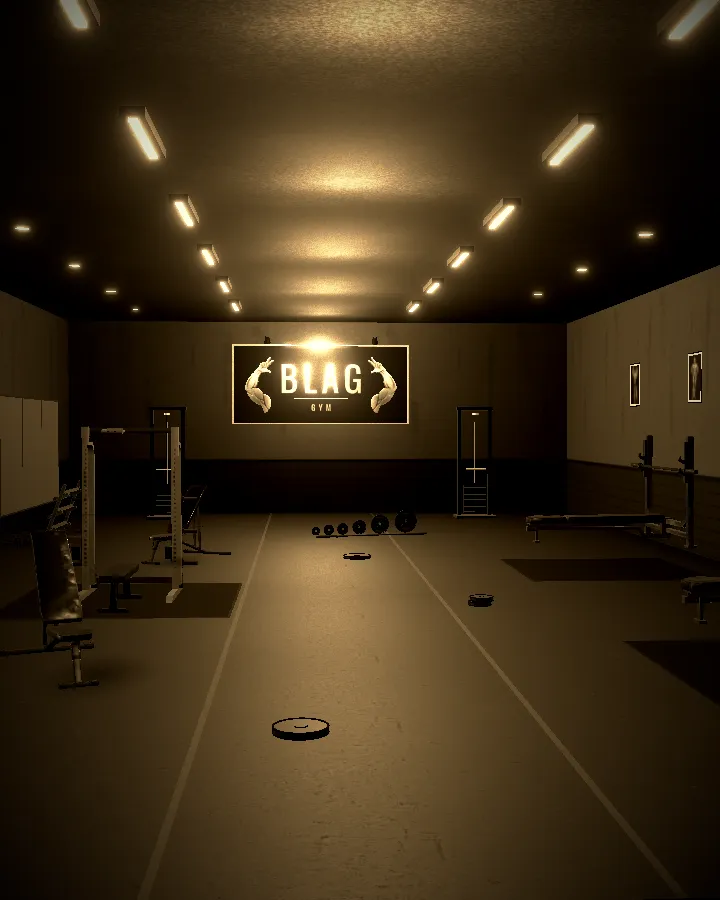
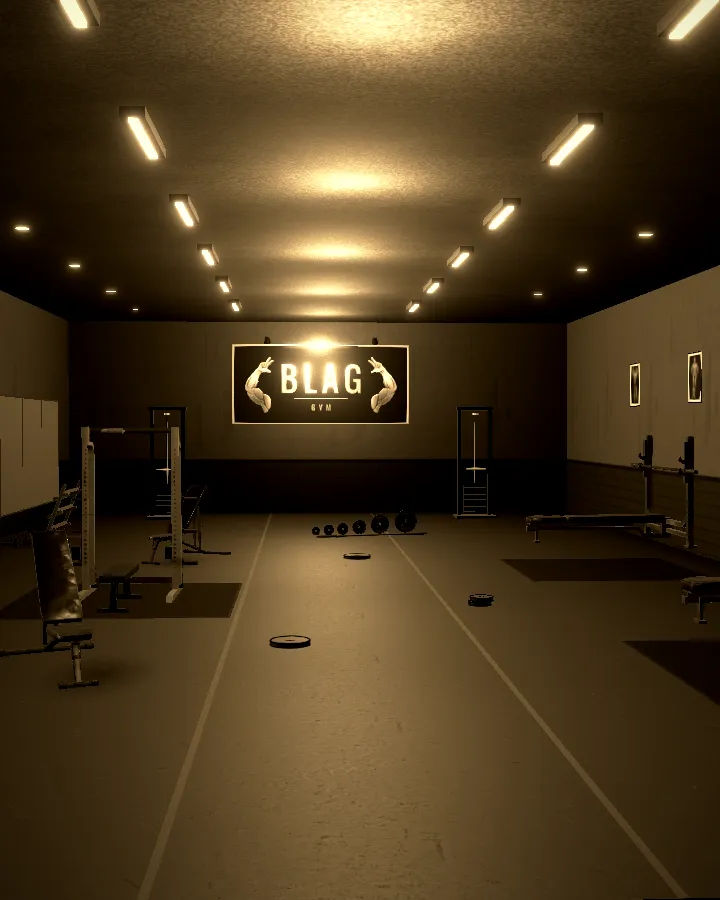
Светът: изгладени ръбове (SMAA), по-лека винетка в залата, по-светъл таван
Николай: „може ли да не е така черно отгоре и отдолу“ и „острота на
кадрите… много са отцепени“. Ефектите вървяха без изглаждане
(multisampling 0, antialias false) — ръбовете на лампите и линиите бяха
на стъпала; SMAA е първият ефект. Винетката в залата е 0.42 (беше 0.78) и
към улицата се връща на 0.78 — неонът е същият. Таванът е #3a342c (беше
#1b1815), зърното 0.35 (беше 0.55). Дискът пред камерата на телефона е
преместен навътре. lite-gym.webp е заснет наново.

Claude-Session: https://claude.ai/code/session_01EQMiKfBy3otTZWt7iKtyxo

diff --git a/src/svyat/Scene.jsx b/src/svyat/Scene.jsx
@@ -1,7 +1,7 @@
 import { Suspense, useEffect, useRef } from 'react'
 import { Canvas, useFrame } from '@react-three/fiber'
 import { PerformanceMonitor, Scroll, ScrollControls, useProgress, useScroll } from '@react-three/drei'
-import { Bloom, BrightnessContrast, EffectComposer, HueSaturation, Noise, Sepia, Vignette } from '@react-three/postprocessing'
+import { Bloom, BrightnessContrast, EffectComposer, HueSaturation, Noise, SMAA, Sepia, Vignette } from '@react-three/postprocessing'
 import * as THREE from 'three'
 import Street from './Street.jsx'
 import Gym, { GYM_X } from './Gym.jsx'
@@ -107,6 +107,7 @@ function Grade() {
   const bc = useRef()
   const sepia = useRef()
   const amber = useRef()
+  const vig = useRef()
   // Залата е в сепия (по снимката на Николай: тъмно, топло, зърнесто);
   // към улицата тонът се връща, за да свети неонът в цвят. Сепията сама е
   // бледа — amber я насища до кехлибар (29.10, „много бледо“).
@@ -116,16 +117,20 @@ function Grade() {
     if (bc.current) bc.current.contrast = 0.28 * day
     if (sepia.current) sepia.current.intensity = 1 * day
     if (amber.current) { amber.current.saturation = AMBER * day; amber.current.hue = AMBER_HUE * day }
+    // в залата винетката е лека — на изправен телефон тежката чернееше горе и долу
+    if (vig.current) vig.current.darkness = THREE.MathUtils.lerp(0.78, 0.42, day)
   })
   return (
     <EffectComposer multisampling={0}>
+      {/* без изглаждане ръбовете на лампите и линиите излизаха на стъпала */}
+      <SMAA />
       <Bloom mipmapBlur intensity={1.1} luminanceThreshold={0.9} luminanceSmoothing={0.25} radius={0.75} />
       <HueSaturation ref={hue} saturation={-0.3} />
       <Sepia ref={sepia} intensity={1} />
       <HueSaturation ref={amber} saturation={AMBER} hue={AMBER_HUE} />
       <BrightnessContrast ref={bc} contrast={0.28} />
-      <Noise premultiply opacity={0.55} />
-      <Vignette offset={0.22} darkness={0.78} />
+      <Noise premultiply opacity={0.35} />
+      <Vignette ref={vig} offset={0.22} darkness={0.42} />
     </EffectComposer>
   )
 }

diff --git a/src/svyat/Gym.jsx b/src/svyat/Gym.jsx
@@ -92,7 +92,7 @@ function ceilingTexture() {
   const c = document.createElement('canvas')
   c.width = c.height = S
   const g = c.getContext('2d')
-  g.fillStyle = '#1b1815'
+  g.fillStyle = '#3a342c'
   g.fillRect(0, 0, S, S)
   for (let k = 0; k < 60; k++) {
     g.fillStyle = `rgba(${Math.random() < 0.5 ? '6,5,4' : '70,62,52'},${0.05 + Math.random() * 0.08})`
@@ -537,7 +537,7 @@ export default function Gym() {
       <group position={[0.8, 0, -14.6]} rotation-y={0.25}><Model url="/svyat/models/barbell.glb" scale={1.1} m={m} /></group>
 
       {/* разхвърляни дискове по пода */}
-      <group position={[-0.5, 0, -1.2]}><PlatePile n={1} r={0.2} m={m} /></group>
+      <group position={[-0.6, 0, -4.2]}><PlatePile n={1} r={0.2} m={m} /></group>
       <group position={[1.6, 0, -6.4]}><PlatePile n={2} r={0.14} m={m} /></group>
       <group position={[0.4, 0, -11]}><PlatePile n={1} m={m} /></group>
       {/* сенките под уредите — нарисувани петна, без втори рендер */}
